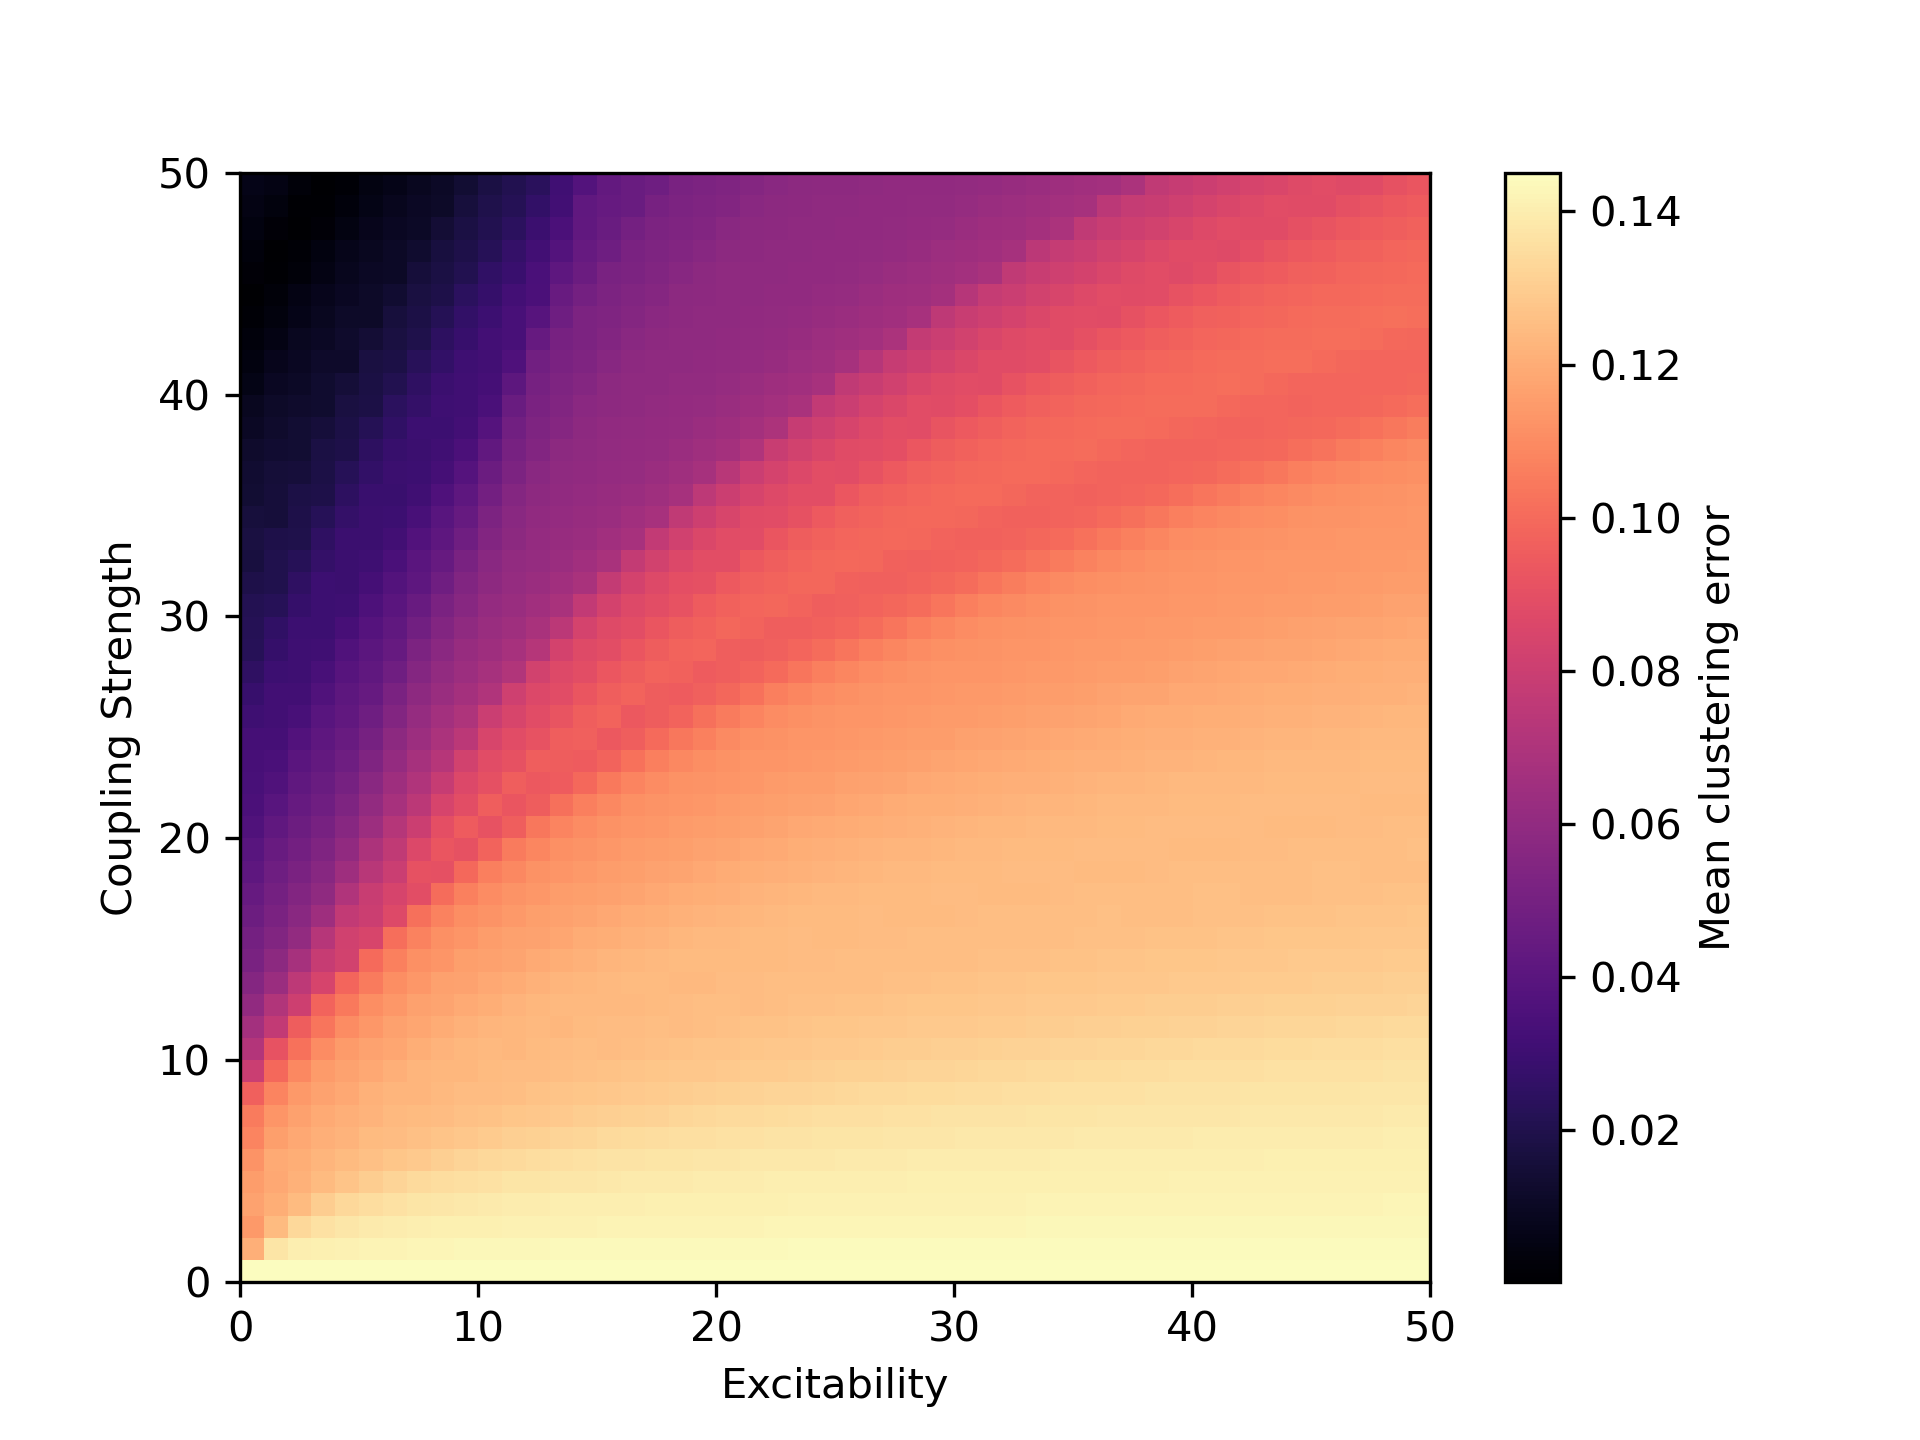
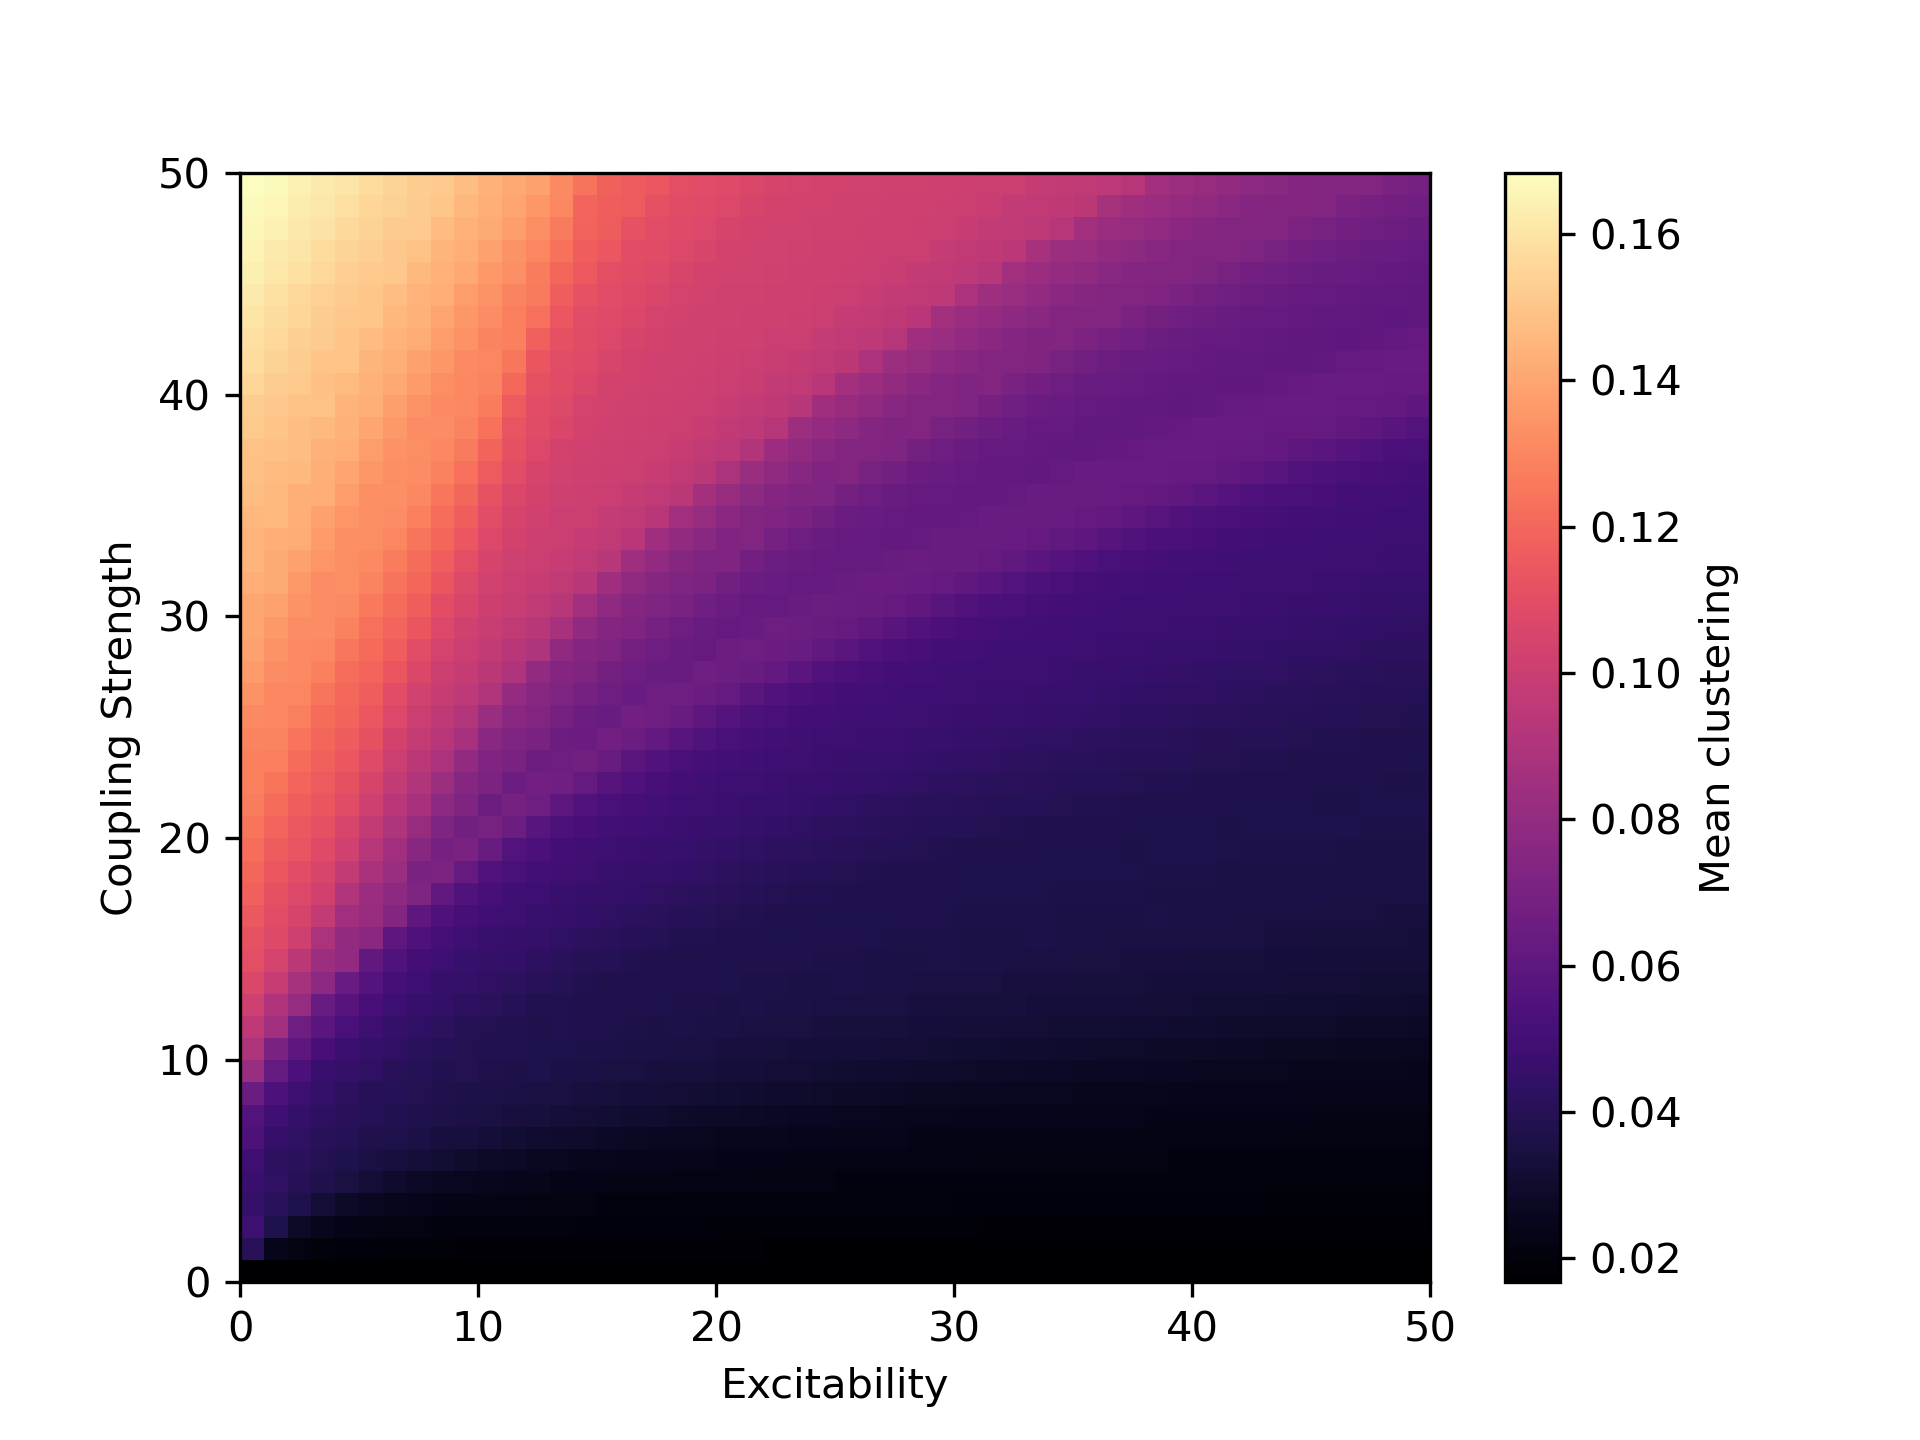
Added node-centric network metrics to 2D_fitting.py

diff --git a/scripts/2D_fitting.py b/scripts/2D_fitting.py
@@ -24,6 +24,7 @@ plt.style.use('seaborn-muted')
 np.random.seed(5)
 run = False
 craniotomy = False
+loglog = True
 # save paths
 file_name = '750IC_50M'
 plot_path = '../plots/2D_fitting/' + file_name + '/'
@@ -35,29 +36,17 @@ freq_path = '../data/exp_frequencies.csv'
 DE_file = simu_path+'hopf.so'
 create_directory(plot_path)
 create_directory(simu_path)
-n_jobs=100;ICN=1
-
-
-# read tumor file (to fit tumor region parameters)
-tumor_indss_f = '../data/patients_tumor_overlaps.csv'
-tumor_indss = pd.read_csv(tumor_indss_f, sep=';').to_numpy()
-tumor_indss = tumor_indss[:,1:]
-tumor_inds = np.array([])
-n_patients, N = tumor_indss.shape
-for k in range(n_patients):
-    tumor_inds = np.concatenate((tumor_inds,  np.nonzero(tumor_indss[k,:])[0]))
-tumor_inds = list(set(list(tumor_inds))) 
-tumor_inds = [int(tumor_inds[k]) for k in range(len(tumor_inds))]
+n_jobs=100;ICN=10
 
 # parameters to vary
-parmin1=0;parmax1=50;M1=4  
-parmin2=0;parmax2=50;M2=4
+parmin1=0;parmax1=50;M1=50  
+parmin2=0;parmax2=50;M2=50
 
 # ODE parameters
 kappa = 20
 decay = sym.var('decay')
 h = sym.var('h')  
-control_pars = [h, decay]
+hontrol_pars = [h, decay]
 
 # solver settings
 t_span = (0,14.5)
@@ -86,6 +75,17 @@ if normalize:
 G_exp = nx.from_numpy_matrix(gli_PLI)
 exp_clustering = np.mean(list(nx.clustering(G_exp, weight='weight').values()))
 exp_centrality = np.mean(list(nx.eigenvector_centrality(G_exp, weight='weight').values()))
+
+# read tumor file (to fit tumor region parameters)
+tumor_indss_f = '../data/patients_tumor_overlaps.csv'
+tumor_indss = pd.read_csv(tumor_indss_f, sep=';').to_numpy()
+tumor_indss = tumor_indss[:,1:]
+tumor_inds = np.array([])
+n_patients, N = tumor_indss.shape
+for k in range(n_patients):
+    tumor_inds = np.concatenate((tumor_inds,  np.nonzero(tumor_indss[k,:])[0]))
+tumor_inds = list(set(list(tumor_inds))) 
+tumor_inds = [int(tumor_inds[k]) for k in range(len(tumor_inds))]
 
 # read adjacency matrix and experimental frequencies
 W = pickle.load( open( W_path, "rb" ) )
@@ -156,7 +156,7 @@ if run:
             return (r_healthy, r_glioma, *clustering, *centrality)
 
         # Run the computation in parallel
-        results = Parallel(n_jobs=n_jobs)(delayed(compute_single)(i, j, DE_file, n) for i in tqdm(range(M1), desc=f'Initial condition {IC} of {ICN}') for j in range(M2)) 
+        results = Parallel(n_jobs=n_jobs)(delayed(compute_single)(i, j, DE_file, n) for i in tqdm(range(M1), desc=f'Initial condition {IC+1} of {ICN}') for j in range(M2)) 
         # store results 
         rs[IC] = np.array(results).reshape((M1,M2,2+2*N))
 
@@ -232,7 +232,7 @@ plt.imshow(np.abs(clustering_mean-exp_clustering), cmap='magma', extent=[pars2.m
 plt.colorbar(label='Mean clustering error')
 plt.xlabel('Excitability')
 plt.ylabel('Coupling Strength')
-plt.savefig(plot_path+file_name+'_clustering_grid.png',dpi=300)
+plt.savefig(plot_path+file_name+'_clustering_err_grid.png',dpi=300)
 
 # centrality error
 plt.figure()
@@ -263,57 +263,127 @@ for IC in range(ICN):
 plt.savefig(plot_path+file_name+'_optimal_coupling.png',dpi=300)
 
 # plot mean and std of all inital conditions
-plt.figure()
-mean_coupling_healthy = np.mean(max_coupling_healthy_all, axis=0)
-std_coupling_healthy = np.std(max_coupling_healthy_all, axis=0)
-mean_coupling_glioma = np.mean(max_coupling_glioma_all, axis=0)
-std_coupling_glioma = np.std(max_coupling_glioma_all, axis=0)
-# Plot the mean line
-plt.plot(pars2, mean_coupling_healthy, color='blue')
-plt.plot(pars2, mean_coupling_glioma, color='red')
-# Fill the area around the mean with the standard deviation
-plt.fill_between(pars2, mean_coupling_healthy - std_coupling_healthy, mean_coupling_healthy + std_coupling_healthy, color=(0.8, 0.8, 1.0), alpha=0.7)
-plt.fill_between(pars2, mean_coupling_glioma - std_coupling_glioma, mean_coupling_glioma + std_coupling_glioma, color=(1.0, 0.8, 0.8), alpha=0.7)
-# Customize the plot
-plt.xlabel('Excitability')
-plt.ylabel('Optimal coupling strength')
-plt.savefig(plot_path+file_name+'_optimal_coupling_std.png',dpi=300)
+if loglog:
+    plt.figure()
+    mean_coupling_healthy = np.mean(max_coupling_healthy_all, axis=0)
+    std_coupling_healthy = np.std(max_coupling_healthy_all, axis=0)
+    mean_coupling_glioma = np.mean(max_coupling_glioma_all, axis=0)
+    std_coupling_glioma = np.std(max_coupling_glioma_all, axis=0)
+    # Plot the mean line
+    plt.plot(pars2, mean_coupling_healthy, color='blue')
+    plt.plot(pars2, mean_coupling_glioma, color='red')
+    # Fill the area around the mean with the standard deviation
+    plt.fill_between(pars2, mean_coupling_healthy - std_coupling_healthy, mean_coupling_healthy + std_coupling_healthy, color=(0.8, 0.8, 1.0), alpha=0.7)
+    plt.fill_between(pars2, mean_coupling_glioma - std_coupling_glioma, mean_coupling_glioma + std_coupling_glioma, color=(1.0, 0.8, 0.8), alpha=0.7)
+    # Customize the plot
+    plt.xlabel('Excitability')
+    plt.ylabel('Optimal coupling strength')
+    plt.savefig(plot_path+file_name+'_optimal_coupling_std.png',dpi=300)
 
-# remove 0 from the data due to log transformation
-pars2 = pars2[1:]
-mean_coupling_healthy = mean_coupling_healthy[1:]
-mean_coupling_glioma = mean_coupling_glioma[1:]
-# Apply log transformations to the data
-log_pars2 = np.log(pars2)
-log_mean_coupling_healthy = np.log(mean_coupling_healthy)
-log_mean_coupling_glioma = np.log(mean_coupling_glioma)
+    # remove 0 from the data due to log transformation
+    pars2 = pars2[1:]
+    mean_coupling_healthy = mean_coupling_healthy[1:]
+    mean_coupling_glioma = mean_coupling_glioma[1:]
+    # Apply log transformations to the data
+    log_pars2 = np.log(pars2)
+    log_mean_coupling_healthy = np.log(mean_coupling_healthy)
+    log_mean_coupling_glioma = np.log(mean_coupling_glioma)
 
-plt.figure(figsize=(8, 6)) 
-plt.loglog(pars2, mean_coupling_healthy, color='blue')
-plt.loglog(pars2, mean_coupling_glioma, color='red')
+    plt.figure(figsize=(8, 6)) 
+    plt.loglog(pars2, mean_coupling_healthy, color='blue')
+    plt.loglog(pars2, mean_coupling_glioma, color='red')
 
-# Define a linear fitting function
-def linear_fit(x, a, b):
-    return a * x + b
-def log_fit(x, a, b):
-    return x**a * np.exp(b)
-# Fit a straight line to the log-log plot for the healthy data
-params_h, covariance_h = curve_fit(linear_fit, log_pars2, log_mean_coupling_healthy)
-a_h, b_h = params_h
-slope_h = a_h
-intercept_h = b_h
+    # Define a linear fitting function
+    def linear_fit(x, a, b):
+        return a * x + b
+    def log_fit(x, a, b):
+        return x**a * np.exp(b)
+    # Fit a straight line to the log-log plot for the healthy data
+    params_h, covariance_h = curve_fit(linear_fit, log_pars2, log_mean_coupling_healthy)
+    a_h, b_h = params_h
+    slope_h = a_h
+    intercept_h = b_h
 
-# Fit a straight line to the log-log plot for the glioma data
-params_g, covariance_g = curve_fit(linear_fit, log_pars2, log_mean_coupling_glioma)
-a_g, b_g = params_g
-slope_g = a_g
-intercept_g = b_g
+    # Fit a straight line to the log-log plot for the glioma data
+    params_g, covariance_g = curve_fit(linear_fit, log_pars2, log_mean_coupling_glioma)
+    a_g, b_g = params_g
+    slope_g = a_g
+    intercept_g = b_g
 
-# Plot the fitted lines
-plt.plot(pars2, log_fit(pars2, *params_h), '--', color='blue', label=f'Fit (Healthy): y = {slope_h:.2f}x + {intercept_h:.2f}')
-plt.plot(pars2, log_fit(pars2, *params_g), '--', color='red', label=f'Fit (Glioma): y = {slope_g:.2f}x + {intercept_g:.2f}')
-plt.xlabel('Log(excitability)')
-plt.ylabel('Log(optimal coupling)')
-plt.legend()
-plt.savefig(plot_path+file_name+'_loglog.png',dpi=300)
+    # Plot the fitted lines
+    plt.plot(pars2, log_fit(pars2, *params_h), '--', color='blue', label=f'Fit (Healthy): y = {slope_h:.2f}x + {intercept_h:.2f}')
+    plt.plot(pars2, log_fit(pars2, *params_g), '--', color='red', label=f'Fit (Glioma): y = {slope_g:.2f}x + {intercept_g:.2f}')
+    plt.xlabel('Log(excitability)')
+    plt.ylabel('Log(optimal coupling)')
+    plt.legend()
+    plt.savefig(plot_path+file_name+'_loglog.png',dpi=300)
+
+
+
+# now that we have the scaling, we can look at network metrics and nodes
+excs = [5, 15, 25, 35, 45]
+for exc in excs:
+    # pick an excitability parameter value and find corresponding coupling strengths
+    cou_h = log_fit(exc, *params_h)
+    cou_g = log_fit(exc, *params_g)
+
+
+    # find the closest grid point
+    index_exc = min(range(len(pars2)), key=lambda i: abs(pars2[i] - exc))
+    index_cou_h = min(range(len(pars1)), key=lambda i: abs(pars1[i] - cou_h))
+    index_cou_g = min(range(len(pars1)), key=lambda i: abs(pars1[i] - cou_g))
+    index_h = [index_exc, index_cou_h]
+    index_g = [index_exc, index_cou_g]
+
+
+    # iterate through the nodes, plotting node degree vs clustering/centrality
+    GW = nx.from_numpy_matrix(W)
+    node_degrees = []
+    clustering_hs = []
+    clustering_gs = []
+    centrality_hs = []
+    centrality_gs = []
+    for i in range(N):
+        # healthy
+        clustering_h = clustering[index_cou_h, index_exc, i]
+        centrality_h = centrality[index_cou_h, index_exc, i]
+        clustering_hs.append(clustering_h)
+        centrality_hs.append(centrality_h)
+
+        # toxic
+        clustering_g = clustering[index_cou_g, index_exc, i]
+        centrality_g = centrality[index_cou_g, index_exc, i]
+        clustering_gs.append(clustering_g)
+        centrality_gs.append(centrality_g)
+
+        # compute node_degre
+        node_degree = GW.degree(i, weight='weight')
+        node_degrees.append(node_degree)
+
+
+    # plotting clustering
+    plt.figure()
+    node_degrees=np.array(node_degrees);clustering_hs=np.array(clustering_hs)
+    clustering_gs=np.array(clustering_gs);centrality_hs=np.array(centrality_hs)
+    centrality_gs=np.array(centrality_gs)
+    #plt.scatter(node_degrees, clustering_hs, c='blue')
+    #plt.scatter(node_degrees, clustering_gs, c='red')
+    clust_diff = clustering_gs-clustering_hs
+    plt.scatter(node_degrees, clust_diff, c='grey')
+    plt.axhline(y=np.mean(clust_diff), color='black', linestyle='--')
+    plt.xlabel('Weighted node degree')
+    plt.ylabel('Clustering coefficient (glioma - healthy)')
+    plt.savefig(plot_path+file_name+f'_clustering_nodes_exc{exc}.png',dpi=300)
+
+    # plotting centrality
+    plt.figure()
+    #plt.scatter(node_degrees, centrality_hs, c='blue')
+    #plt.scatter(node_degrees, centrality_gs, c='red')
+    centr_diff = centrality_gs-centrality_hs
+    plt.scatter(node_degrees, centr_diff, c='grey')
+    plt.scatter(node_degrees, centr_diff, c='grey')
+    plt.axhline(y=np.mean(centr_diff), color='black', linestyle='--')
+    plt.xlabel('Weighted node degree')
+    plt.ylabel('Eigenvector centrality (glioma - healthy)')
+    plt.savefig(plot_path+file_name+f'_centrality_nodes_exc{exc}.png',dpi=300)
 
